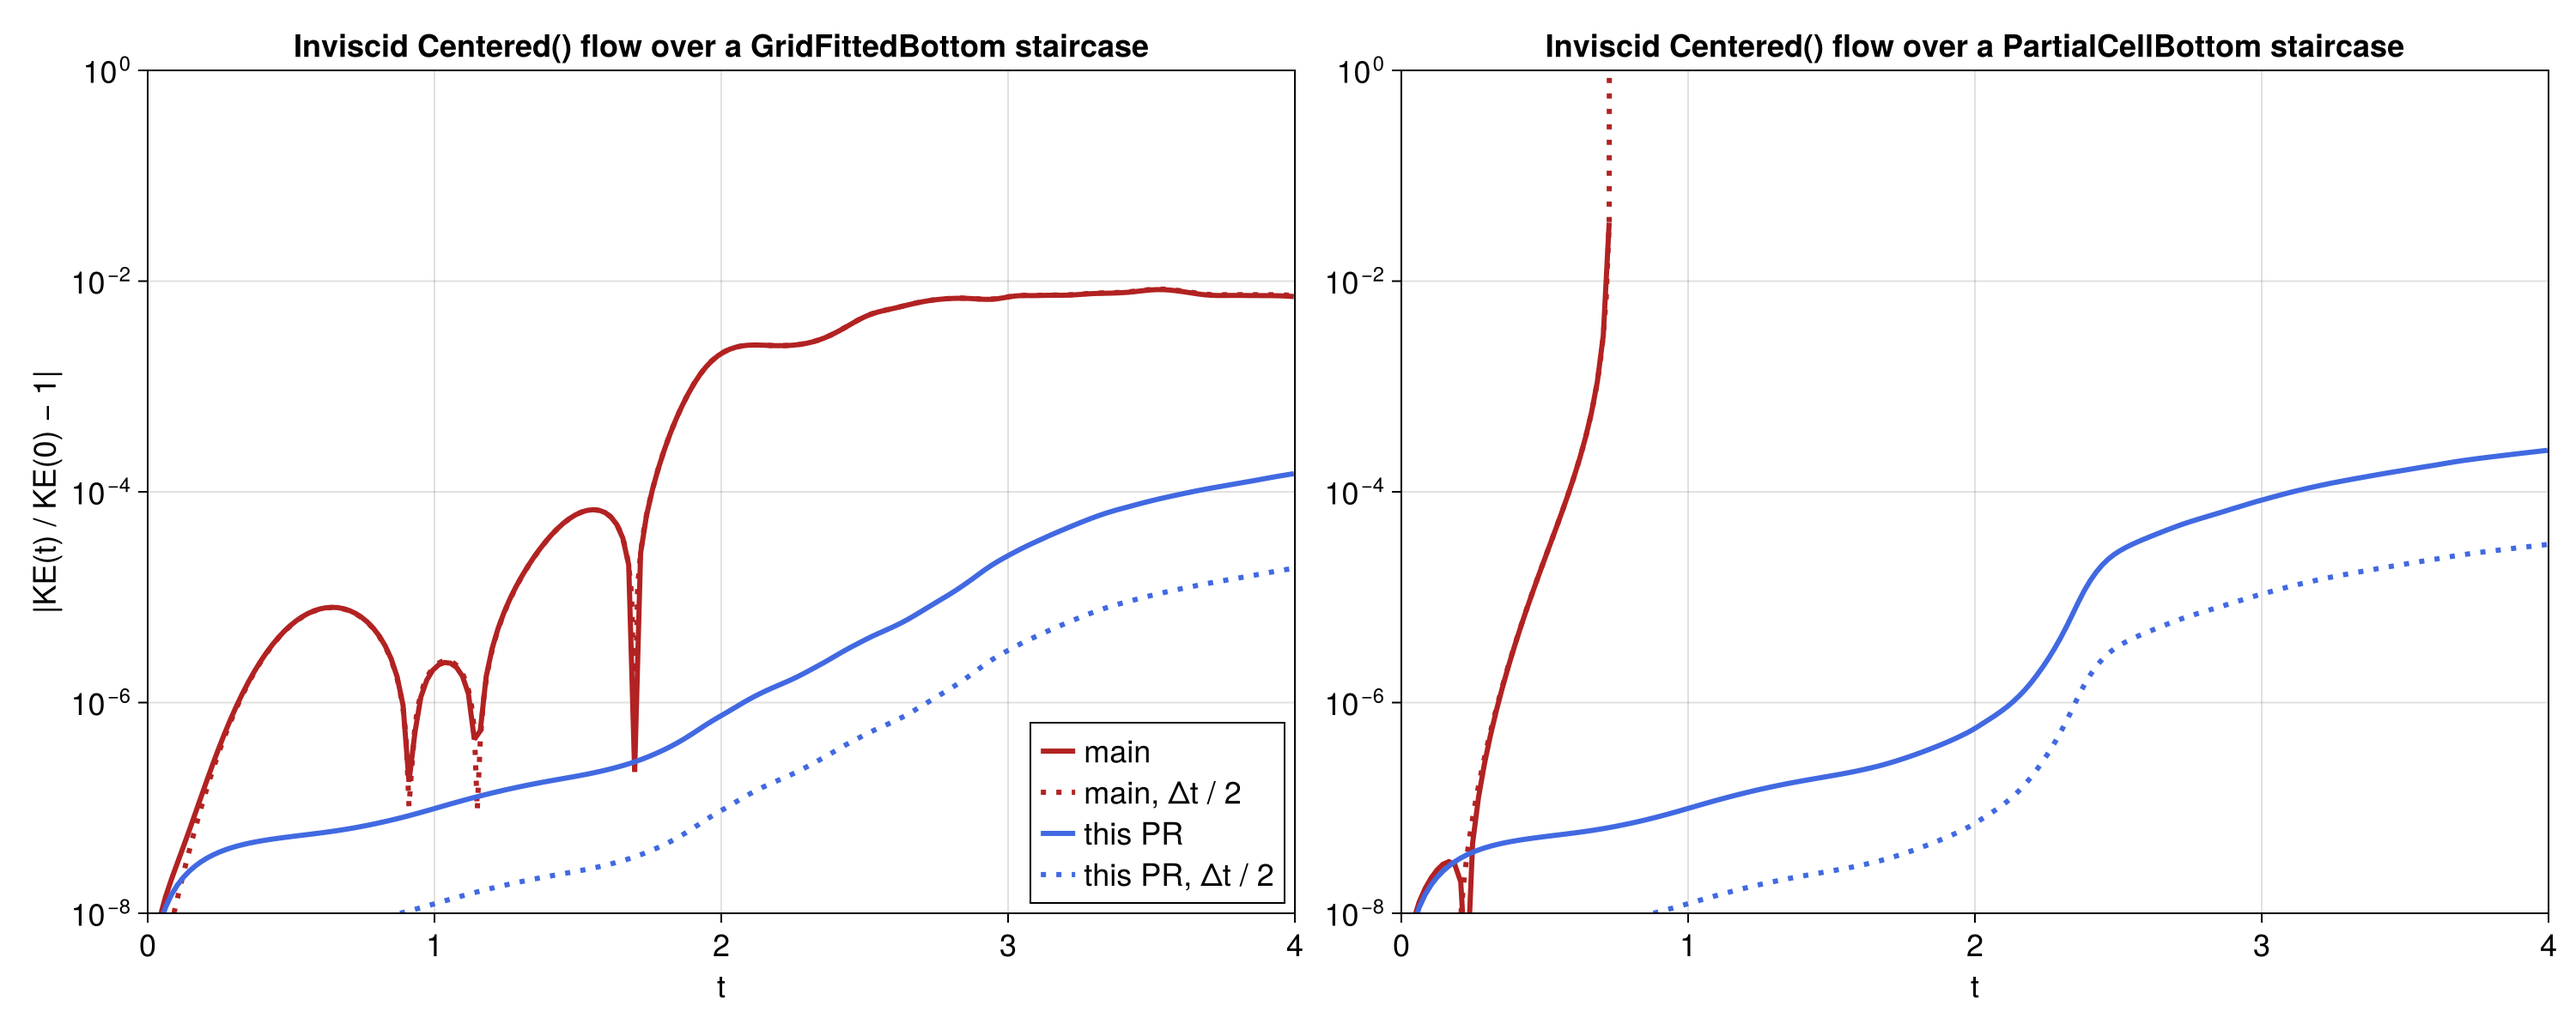
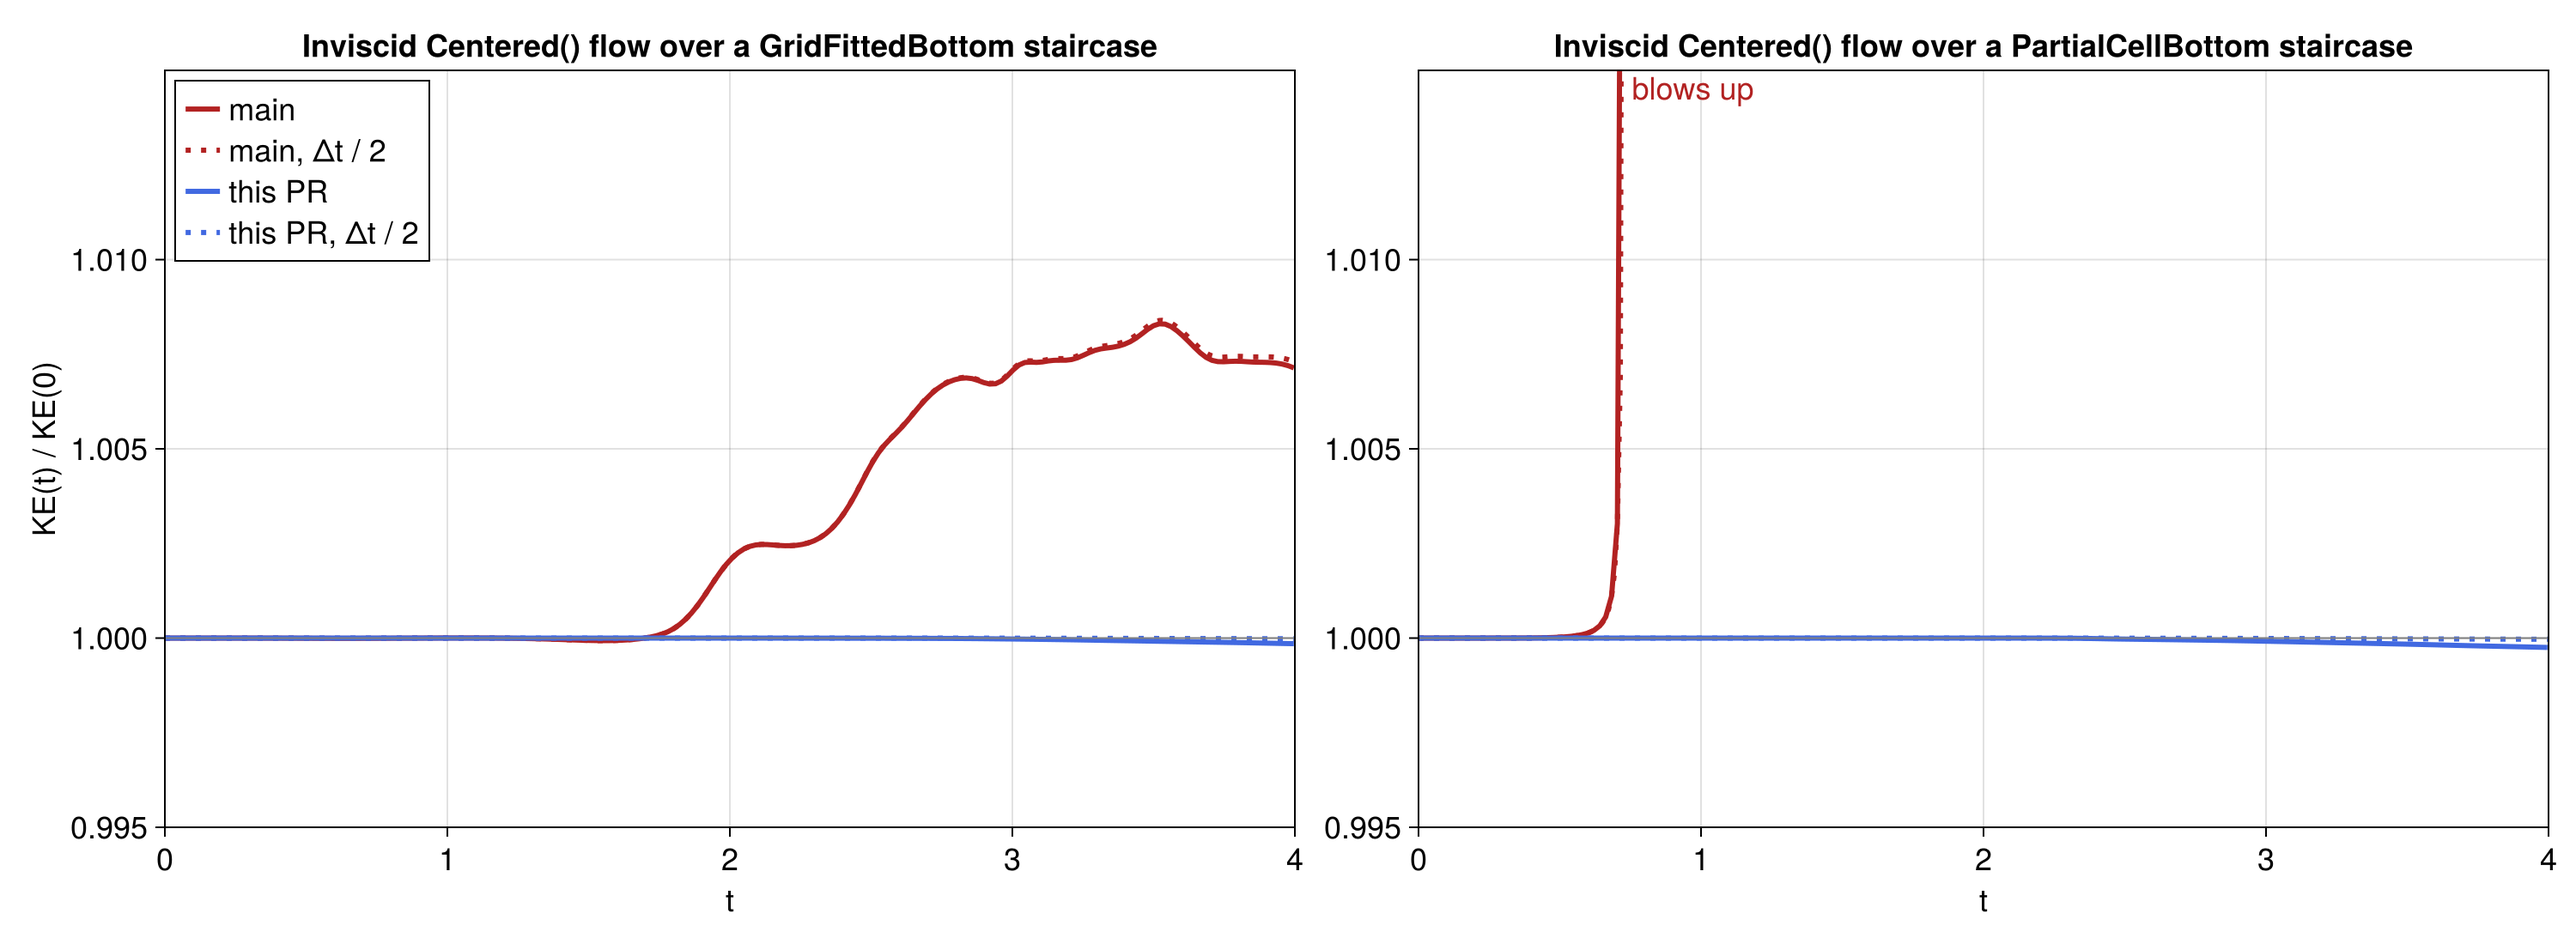
Plot the kinetic energy ratio on a linear axis

diff --git a/README.md b/README.md
@@ -10,6 +10,6 @@ then `julia plot.jl <directory containing out_base and out_pr>` with CairoMakie.
 
 `kinetic_energy_full_partial.png`: `demo.jl`/`demo_dt.jl` (full cells), `demo3.jl` (partial cells on `main`) and `demo4.jl` (partial cells on the PR head, output `out_prfix`), plotted with `plot_ke2.jl`.
 
-`kinetic_energy.png` (current): `ke_final.jl` run on the merge base (`d6a60f2`, output `final_base`) and on the PR head (`0279ba1`, output `final_pr`), plotted with `plot_ke_final.jl`.
+`kinetic_energy.png` (current): `ke_final.jl` run on the merge base (`d6a60f2`, output `final_base`) and on the PR head (`0279ba1`, output `final_pr`), plotted with `plot_ke_ratio.jl`.
 
 `staircase_convection.png` (current): `conv_final.jl` run on the PR head (`7faabdd`, output `conv_pr`, all cases) and on the merge base (`conv_base`, the 128 × 128 cases); the merge-base 16 × 128 and 3D curves are the `demo.jl`/`demo2.jl`/`demo3.jl` runs. Plotted with `plot_conv_final.jl`.
